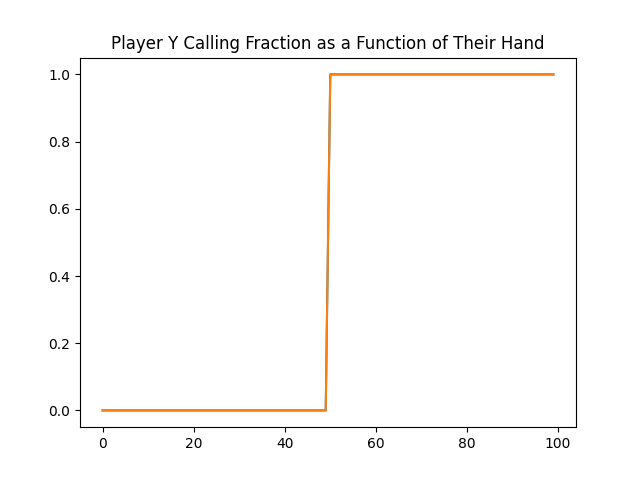
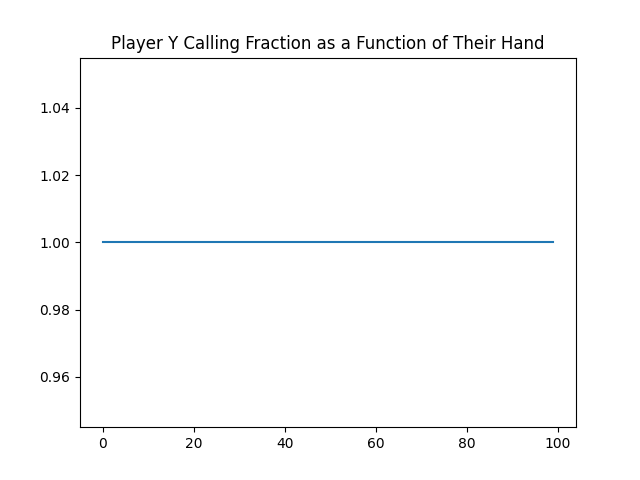
consistency push

diff --git a/part1/poker1.py b/part1/poker1.py
@@ -108,18 +108,6 @@ class pokerRound:
             self.p = 0 # reset pot
             return [0, pot]
 
-# Creates half-street game with:
-#   - Cards labeled 1 to 100
-#   - Initial pot of 0
-#   - Ante of 1 betting unit
-#   - Bet of 2 betting units
-#   - Initial drawing of cards is 1 for each player
-#   - Each player has amount 10 betting units at start
-pr = pokerRound(100, 0, 1, 2, [1,1], [0,0], [10,10])
-
-pr.drawRandCards()
-print(pr.d)
-
 # fictitious play algorithm based off of class discussion
 class fictitiousPlay:
     
@@ -139,10 +127,6 @@ class fictitiousPlay:
 
         #loop over number of tries
         for i in range(1,self.I):
-            
-            # counters for bet and call, useful for setting bFrac and cFrac arrays
-            # bCount = [0] * self.N
-            # cCount = [0] * self.N
             
             # reevaluate betting fraction for player X
             for j in range(1,self.N+1,1):
@@ -199,7 +183,7 @@ class fictitiousPlay:
         aX = self.bFracs[x-1]
 
         if fold:
-            payoff = (1/float(self.N))*aX*((y-1)*(self.a)+0+(self.N-y)*(-self.a))
+            payoff = -self.a
         else:
             payoff = (1/float(self.N))*aX*((y-1)*(self.a+self.b)+0+(self.N-y)*(-(self.a+self.b)))
 
@@ -213,6 +197,7 @@ class fictitiousPlay:
         plt.savefig('bettingFraction.png')
         
         # plot calling fraction plot
+        plt.clf()
         plt.title('Player Y Calling Fraction as a Function of Their Hand')
         plt.plot(self.cFracs)
         plt.savefig('callingFraction.png')
@@ -222,3 +207,15 @@ if __name__ == "__main__":
     game = fictitiousPlay(100,1,1,1000)
     game.fictitiousAlg()
     game.plotFracs()
+    
+    # Creates half-street game with:
+    #   - Cards labeled 1 to 100
+    #   - Initial pot of 0
+    #   - Ante of 1 betting unit
+    #   - Bet of 2 betting units
+    #   - Initial drawing of cards is 1 for each player
+    #   - Each player has amount 10 betting units at start
+    # pr = pokerRound(100, 0, 1, 2, [1,1], [0,0], [10,10])
+
+    # pr.drawRandCards()
+    # print(pr.d)
